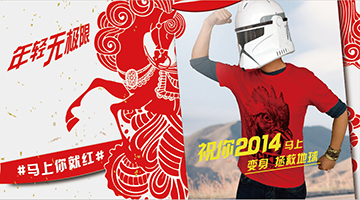
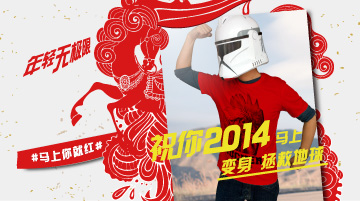
'm'

diff --git a/weixin.php b/weixin.php
@@ -144,7 +144,10 @@ if ($msgType == 'text') {
 
 
             $description = "＃马上你就红＃三招炮制祝福海报。即刻上传你的照片，写下你对TA的祝福语，就可获取专属于你对TA的祝福海报";
-	        replyTextAndImg($sendUserId, $developerId, '炮制＃马上你就红＃祝福海报', $description, 'http://115.29.49.54/image/'.$userInfo['picName'], 'http://tongyi.mei94.com/page?id='.base64_encode($userInfo['picName']));
+	       // replyTextAndImg($sendUserId, $developerId, '炮制＃马上你就红＃祝福海报', $description, 'http://115.29.49.54/image/'.$userInfo['picName'], 'http://tongyi.mei94.com/page?id='.base64_encode($userInfo['picName']));
+			// replyTextAndImg($sendUserId, $developerId, '炮制＃马上你就红＃祝福海报', $description, 'http://115.29.49.54/image/', 'http://tongyi.mei94.com/page?id='.base64_encode($userInfo['picName']));
+			 
+	        replyTextAndImg($sendUserId, $developerId, '炮制＃马上你就红＃祝福海报', $description, 'http://115.29.49.54/activity.jpg', 'http://tongyi.mei94.com/page');
 
             $UserBigPicture = './img/big'.$userInfo['picName'];
 			$userImgBig = new Imagick($UserBigPicture);
